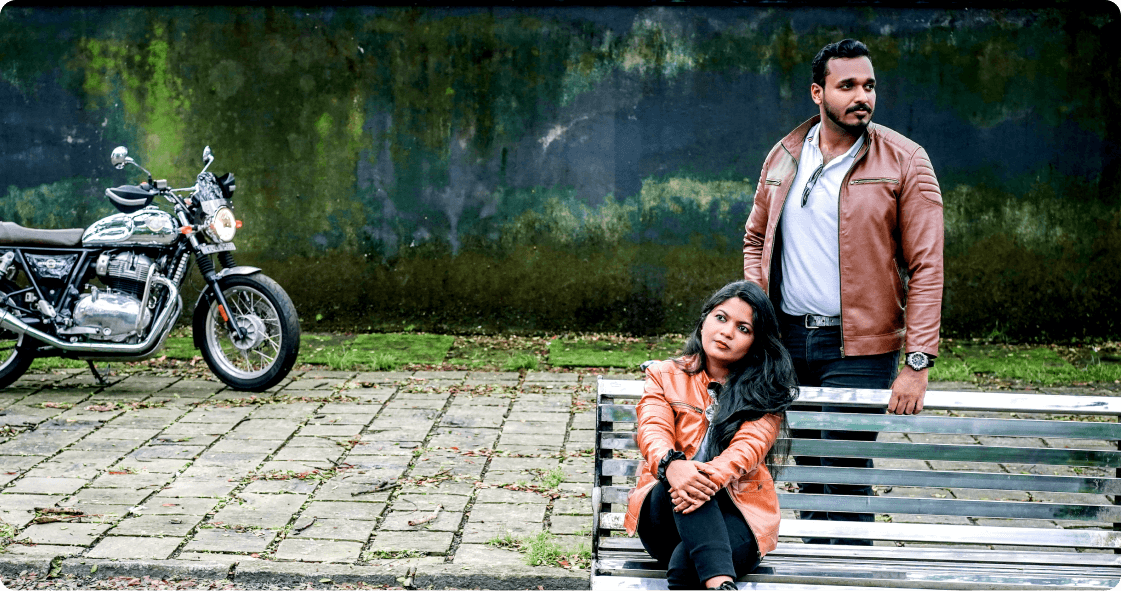
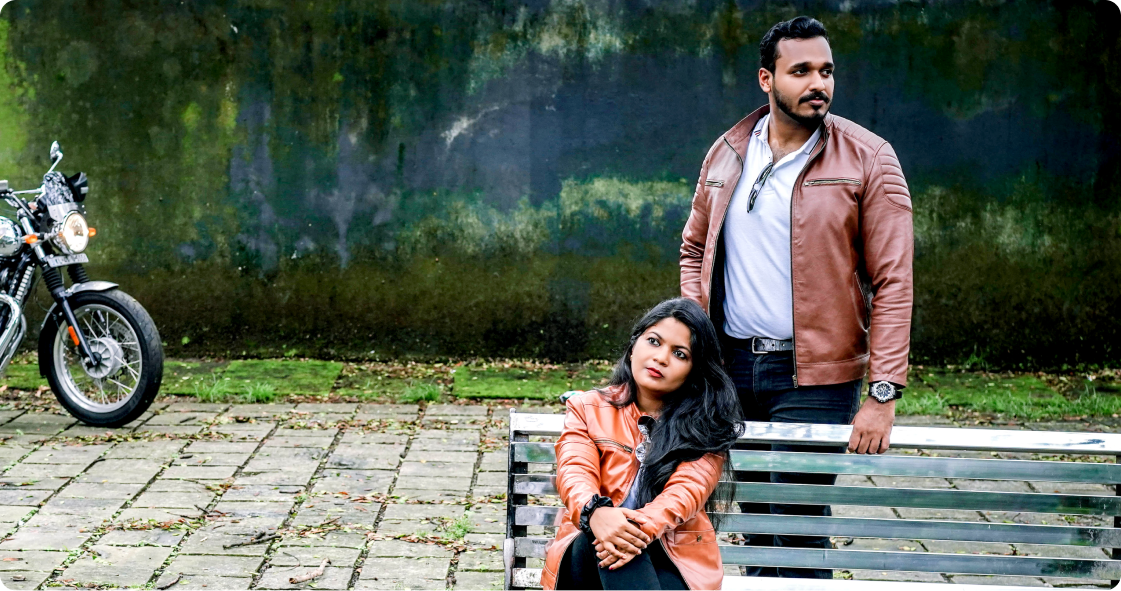
Updated images

diff --git a/css/styles.css b/css/styles.css
@@ -271,7 +271,7 @@ a{
     	height: 44px;
 	}
 	.splide__slide img {
-    	height: 240px;
+    	height: 200px;
 	}
 	.card-desc {
     	font-size: 16px;
